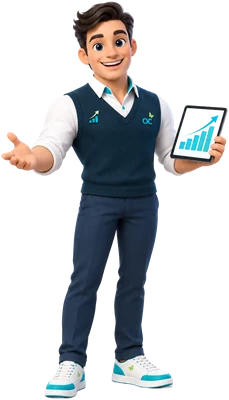
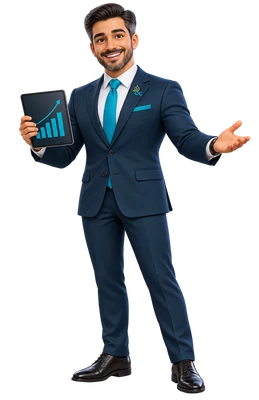
Turma: Diretor de Vendas com o desenho novo (terno e tablet)
Claude-Session: https://claude.ai/code/session_01J4Z1XWxze9kpV6e58orTjR

diff --git a/index.html b/index.html
@@ -9,7 +9,7 @@
 <meta http-equiv="Content-Security-Policy" content="default-src 'self'; script-src 'self' https://cdn.jsdelivr.net; style-src 'self'; img-src 'self' data: blob: https://*.supabase.co; connect-src 'self' https://*.supabase.co wss://*.supabase.co https://viacep.com.br https://servicodados.ibge.gov.br https://brasilapi.com.br; object-src 'none'; base-uri 'none'; form-action 'none'">
 <meta name="referrer" content="no-referrer">
 <title>CRM</title>
-<meta name="crm-versao" content="ff22eec0871a">
+<meta name="crm-versao" content="a665f512096b">
 <!-- app no celular (21/10/2026): manifest + sw.js; ícones da instalação em assets/app-*.png -->
 <link rel="manifest" href="manifest.webmanifest">
 <meta name="theme-color" content="#175b6d">
@@ -59,7 +59,7 @@
 <div id="impressao" class="impressao"></div>
 <div id="toast" class="toast" role="status" aria-live="polite"></div>
 
-<script src="config.js?v=7184e892e2"></script>
+<script src="config.js?v=bc0ec96608"></script>
 <script src="regras.js?v=62662d6ce1"></script>
 <script src="cadencia.js?v=8905237dde"></script>
 <script src="dados.js?v=ea41e3a4de"></script>

diff --git a/config.js b/config.js
@@ -18,7 +18,7 @@ window.CRM_CONFIG = {
   // (topo, de corpo inteiro, guia do dia e conversa); o especialista de cada tela aparece dentro do painel; o Andi
   // recebe no login. turma.js explica. Trocar um desenho: mesmo nome de arquivo e subir a `versao`.
   turma: {
-    pasta: 'assets/turma/', versao: '11',
+    pasta: 'assets/turma/', versao: '12',
     principal: 'clean', anfitriao: 'andi',
     // 20/10/2026: o Andi agora é a foto do Anderson e só apresenta o sistema (quem ajuda no dia a dia é o Clean)
     boasVindas: 'Olá, seja bem-vindo! É um prazer receber você. Entre com o seu e-mail e a sua senha: você está entrando no mundo da OneClean.',

diff --git a/docs/historico/2026-10.md b/docs/historico/2026-10.md
@@ -3228,4 +3228,7 @@ frase com a OneClean escolhida e o lançamento cai aqui no Caixa.
   23/12/2026, guardado ao lado para voltar) e **conferido no CRM** (Fiscal → 4. Emissão: "válido até 28/10/2027 (364 dias)").
   Lição para o passo a passo: `read -rs SENHA` precisa de `export SENHA` para o `openssl -passin env:` enxergar, e cada comando
   colado sozinho (colar o bloco inteiro fez o `printf` rodar mesmo com o `mv` falhando).
+- **28/10, noite — Diretor de Vendas com desenho novo** (o Anderson subiu `assets/turma/Gerente de Vendas.png`, de terno com o
+  tablet): convertido para `gerente-vendas.webp` (corpo, 400 px de altura) e `gerente-vendas-rosto.webp` (192 px), no padrão da
+  turma; o PNG de 1,6 MB saiu do repositório e a versão das imagens da turma foi para 12 (`config.js`), para todos verem sem limpar o navegador.
 
